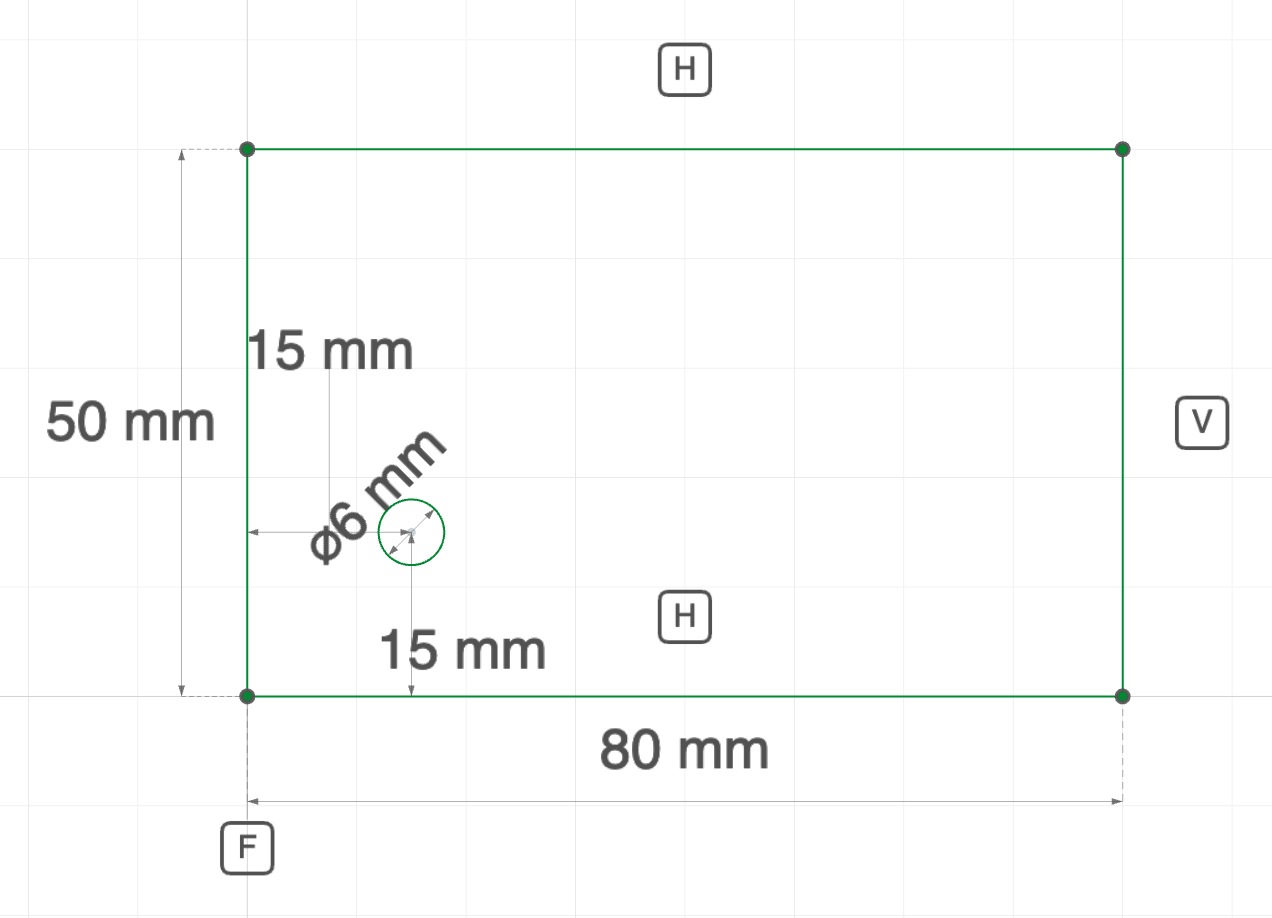
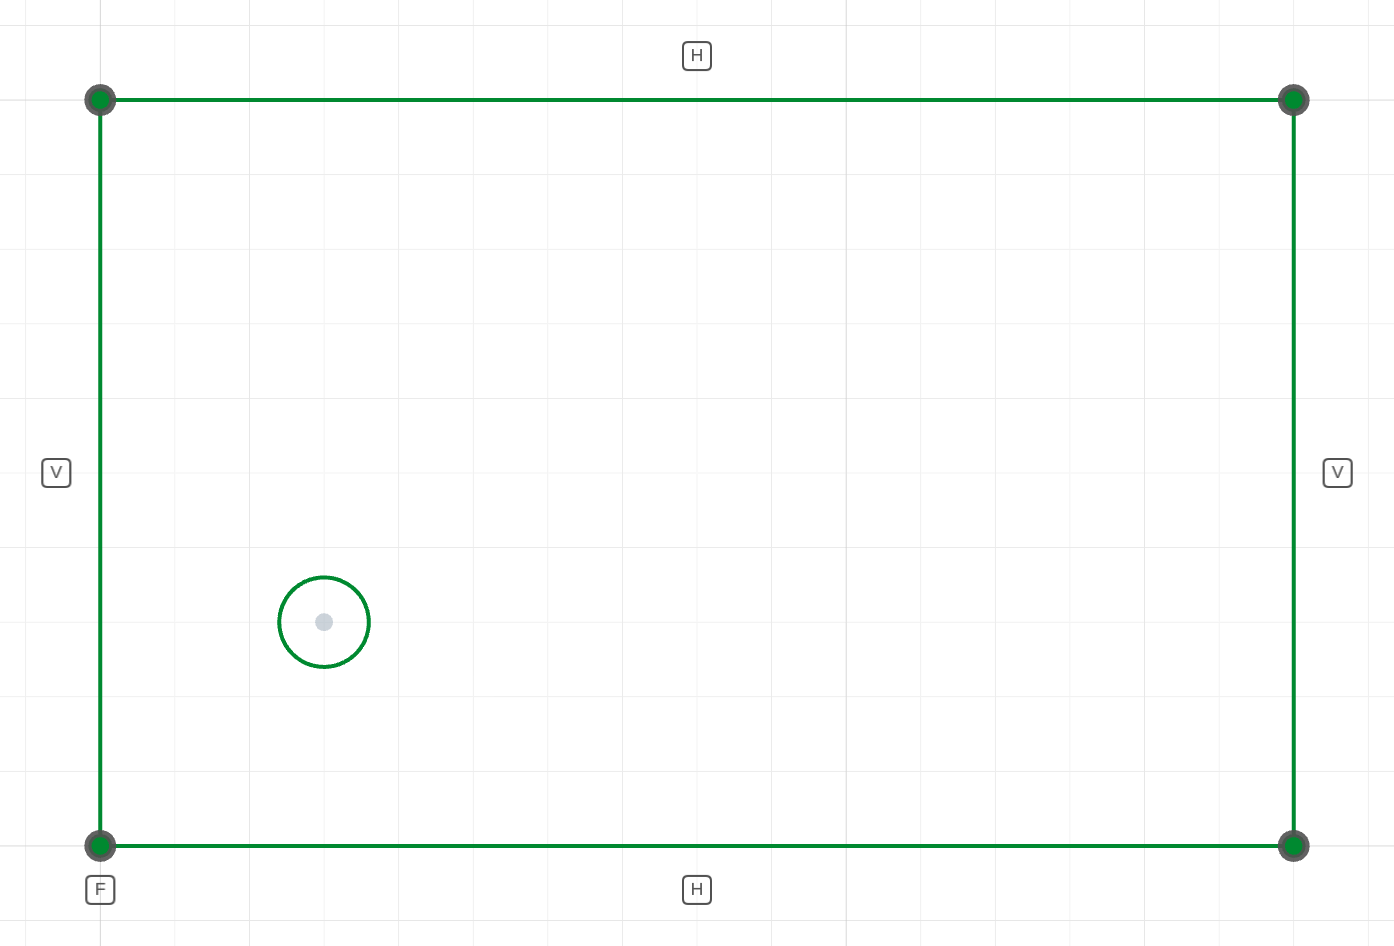
docs(sketching): hide dimensional constraints on positional-constraint screenshots — hideDimensions/hidePositional directives backed by showDimensions/showPositional screenshot options, annotations laid out against the export renderer at pixelRatio 2 so they land at on-screen size, export renderer r

diff --git a/ui/src/screenshot.ts b/ui/src/screenshot.ts
@@ -10,6 +10,8 @@ import {
 import { FIT_PADDING, SceneContext } from './scene/scene-context';
 import { resolveView, type ScreenshotView } from './screenshot-view';
 import { findGeometryRoot } from './scene/scene-geometry-bounds';
+import { runFrameHooks } from './meshes/frame-hooks';
+import { withSketchConstraintVisibility } from './meshes/containers/sketch-constraint-visibility';
 
 export interface ScreenshotOptions {
   width: number;
@@ -31,6 +33,24 @@ export interface ScreenshotOptions {
    * of whatever the user was editing.
    */
   solidsOnly: boolean;
+  /**
+   * Sketch constraint annotations, mirroring the sketch dialog's "Show
+   * constraints" toggles: `showDimensions` covers distance/angle/radius/
+   * diameter readouts, `showPositional` the relation badges and
+   * coincidence dots. Both default to on; a capture that turns one off
+   * rebuilds the sketch glyphs for the shot and restores them afterwards.
+   */
+  showDimensions: boolean;
+  showPositional: boolean;
+  /**
+   * Device-pixel ratio of the export: the drawing buffer stays `width` ×
+   * `height`, but screen-space overlays (constraint badges, dimension
+   * readouts, vertex dots) are sized as if the canvas were `width /
+   * pixelRatio` CSS pixels wide. A 2× export of a docs image that is shown
+   * at half size then carries annotations at their on-screen size, like a
+   * high-DPI screen would.
+   */
+  pixelRatio: number;
 }
 
 const DEFAULTS: ScreenshotOptions = {
@@ -44,6 +64,9 @@ const DEFAULTS: ScreenshotOptions = {
   margin: 0,
   view: { kind: 'current' },
   solidsOnly: false,
+  showDimensions: true,
+  showPositional: true,
+  pixelRatio: 1,
 };
 
 /** Render the current scene to a PNG blob with the given options. */
@@ -106,7 +129,10 @@ export function captureScreenshotMulti(
  * the raw renderer canvas, or an auto-cropped copy).
  */
 function renderToCanvas(sceneCtx: SceneContext, options: ScreenshotOptions): HTMLCanvasElement {
-  const { width, height, showGrid, showAxes, transparent, autoCrop, fitToModel, margin, view, solidsOnly } = options;
+  const {
+    width, height, showGrid, showAxes, transparent, autoCrop, fitToModel, margin, view, solidsOnly,
+    showDimensions, showPositional, pixelRatio,
+  } = options;
 
   const scene = sceneCtx.scene;
   const camera = sceneCtx.camera;
@@ -116,6 +142,10 @@ function renderToCanvas(sceneCtx: SceneContext, options: ScreenshotOptions): HTM
   // Solids-only goes first so the grid/axes toggles below still win over it,
   // and its restore runs last so everything lands back where it started.
   const restoreSolidsOnly = solidsOnly ? isolateSolids(scene) : null;
+  const restoreConstraintVisibility = withSketchConstraintVisibility(scene, {
+    dimensions: showDimensions,
+    positional: showPositional,
+  });
 
   const gridObj = scene.getObjectByName('grid');
   const defaultAxes = scene.getObjectByName('defaultAxesHelper');
@@ -215,8 +245,12 @@ function renderToCanvas(sceneCtx: SceneContext, options: ScreenshotOptions): HTM
     alpha: true,
     preserveDrawingBuffer: true,
   });
-  tmpRenderer.setSize(width, height);
-  tmpRenderer.setPixelRatio(1);
+  // Pixel ratio first: setSize multiplies the drawing buffer by it, so the
+  // buffer lands on width × height while getSize() — what the overlay
+  // layout sizes glyphs against — reports the CSS-pixel canvas.
+  const ratio = pixelRatio > 0 && Number.isFinite(pixelRatio) ? pixelRatio : 1;
+  tmpRenderer.setPixelRatio(ratio);
+  tmpRenderer.setSize(width / ratio, height / ratio, false);
   tmpRenderer.toneMapping = ACESFilmicToneMapping;
   tmpRenderer.outputColorSpace = SRGBColorSpace;
 
@@ -228,6 +262,14 @@ function renderToCanvas(sceneCtx: SceneContext, options: ScreenshotOptions): HTM
     }
   });
 
+  // Screen-space layout passes (sketch annotation declutter, glyph sizing)
+  // size and place their sprites against a renderer + camera, and a freshly
+  // rebuilt glyph set is invisible until one has run. Lay out against the
+  // export renderer so annotations come out at their intended pixel size in
+  // the capture (scaled by pixelRatio) rather than at whatever the live
+  // viewport's zoom made them; the next live frame lays them out again for
+  // the screen.
+  runFrameHooks(tmpRenderer, camera);
   tmpRenderer.render(scene, camera);
 
   // --- Optional auto-crop ---
@@ -277,9 +319,14 @@ function renderToCanvas(sceneCtx: SceneContext, options: ScreenshotOptions): HTM
     false,
   );
 
+  restoreConstraintVisibility();
   restoreSolidsOnly?.();
 
+  // dispose() alone leaves the WebGL context alive until GC; a page that
+  // captures repeatedly (docs generation, an agent's MCP screenshots) then
+  // hits the browser's per-page context cap and loses the live viewport's.
   tmpRenderer.dispose();
+  tmpRenderer.forceContextLoss();
   sceneCtx.requestRender();
 
   return finalCanvas;

diff --git a/ui/src/meshes/containers/sketch-constraint-visibility.ts b/ui/src/meshes/containers/sketch-constraint-visibility.ts
@@ -1,0 +1,59 @@
+import type { Object3D } from 'three';
+import { viewerSettings } from '../../scene/viewer-settings';
+import type { SketchMesh } from './sketch-mesh';
+
+export interface SketchConstraintVisibility {
+  /** Dimensional constraints: distance/angle/radius/diameter annotations. */
+  dimensions: boolean;
+  /** Positional constraints: badges and coincidence dots. */
+  positional: boolean;
+}
+
+/**
+ * Re-derive every live sketch mesh's constraint glyphs from the current
+ * visibility settings — the sketch dialog's dimensional/positional toggles
+ * and the screenshot options both end up here. No server round-trip: the
+ * meshes rebuild their annotation groups in place.
+ */
+export function refreshSketchConstraintGlyphs(scene: Object3D): void {
+  // Collect before refreshing: the rebuild swaps the mesh's own children,
+  // which must not happen under scene.traverse's child iteration.
+  const meshes: SketchMesh[] = [];
+  scene.traverse(node => {
+    if (node.userData.isSketchRoot) {
+      meshes.push(node as SketchMesh);
+    }
+  });
+  for (const mesh of meshes) {
+    mesh.refreshConstraintGlyphs();
+  }
+}
+
+/**
+ * Temporarily apply a constraint-visibility choice to the live sketch
+ * meshes. Returns the undo, which puts the session-wide settings back and
+ * rebuilds the glyphs once more. A no-op (identity undo) when the requested
+ * visibility already matches the settings, so the common capture path never
+ * churns the meshes.
+ */
+export function withSketchConstraintVisibility(
+  scene: Object3D,
+  visibility: SketchConstraintVisibility,
+): () => void {
+  const saved = {
+    sketchShowDimensions: viewerSettings.current.sketchShowDimensions,
+    sketchShowPositional: viewerSettings.current.sketchShowPositional,
+  };
+  if (saved.sketchShowDimensions === visibility.dimensions && saved.sketchShowPositional === visibility.positional) {
+    return () => {};
+  }
+  viewerSettings.update({
+    sketchShowDimensions: visibility.dimensions,
+    sketchShowPositional: visibility.positional,
+  });
+  refreshSketchConstraintGlyphs(scene);
+  return () => {
+    viewerSettings.update(saved);
+    refreshSketchConstraintGlyphs(scene);
+  };
+}

diff --git a/mcp/src/tools/screenshot.ts b/mcp/src/tools/screenshot.ts
@@ -35,6 +35,9 @@ export type ScreenshotInput = WorkspaceArg & {
   fitToModel?: boolean;
   margin?: number;
   solidsOnly?: boolean;
+  showDimensions?: boolean;
+  showPositional?: boolean;
+  pixelRatio?: number;
 };
 
 export async function screenshot(input: ScreenshotInput): Promise<ToolResult<ImageResult>> {
@@ -179,6 +182,9 @@ type ValidatedOptions = {
   margin?: number;
   view?: ScreenshotView;
   solidsOnly?: boolean;
+  showDimensions?: boolean;
+  showPositional?: boolean;
+  pixelRatio?: number;
 };
 
 function validateScreenshotInput(input: ScreenshotInput | ScreenshotMultiInput): ToolResult<ValidatedOptions> {
@@ -198,7 +204,7 @@ function validateScreenshotInput(input: ScreenshotInput | ScreenshotMultiInput):
     }
     opts.height = h;
   }
-  for (const k of ['showGrid', 'showAxes', 'transparent', 'autoCrop', 'fitToModel', 'solidsOnly'] as const) {
+  for (const k of ['showGrid', 'showAxes', 'transparent', 'autoCrop', 'fitToModel', 'solidsOnly', 'showDimensions', 'showPositional'] as const) {
     const v = (input as any)[k];
     if (v !== undefined) {
       if (typeof v !== 'boolean') {
@@ -206,6 +212,13 @@ function validateScreenshotInput(input: ScreenshotInput | ScreenshotMultiInput):
       }
       (opts as any)[k] = v;
     }
+  }
+  if ((input as ScreenshotInput).pixelRatio !== undefined) {
+    const r = (input as ScreenshotInput).pixelRatio!;
+    if (typeof r !== 'number' || !(r >= 1 && r <= 4)) {
+      return err('invalid-input', '`pixelRatio` must be a number between 1 and 4.');
+    }
+    opts.pixelRatio = r;
   }
   if ((input as ScreenshotInput).margin !== undefined) {
     const m = (input as ScreenshotInput).margin!;

diff --git a/ui/src/viewer.ts b/ui/src/viewer.ts
@@ -7,6 +7,7 @@ import { sceneUnit } from './units/scene-unit';
 import { GridScaleBar } from './ui/grid-scale-bar';
 import { buildSceneMesh } from './meshes/mesh-factory';
 import type { SketchMesh } from './meshes/containers/sketch-mesh';
+import { refreshSketchConstraintGlyphs } from './meshes/containers/sketch-constraint-visibility';
 import { PlaneData, SceneObjectPart, SceneObjectRender, SerializedAssembly, SerializedAssemblyMate, SubSelection } from './types';
 import { AssemblyController, DragValueHandler, InstanceDragReleaseHandler, SolverUpdateHandler } from './scene/assembly-controller';
 import { FaceMesh } from './meshes/shape-meshes/face-mesh';
@@ -459,17 +460,7 @@ export class Viewer {
   }
 
   private refreshSketchConstraintGlyphs(): void {
-    // Collect before refreshing: the rebuild swaps the mesh's own children,
-    // which must not happen under scene.traverse's child iteration.
-    const meshes: SketchMesh[] = [];
-    this.ctx.scene.traverse(node => {
-      if (node.userData.isSketchRoot) {
-        meshes.push(node as SketchMesh);
-      }
-    });
-    for (const mesh of meshes) {
-      mesh.refreshConstraintGlyphs();
-    }
+    refreshSketchConstraintGlyphs(this.ctx.scene);
     this.ctx.requestRender();
   }
 

diff --git a/mcp/src/server.ts b/mcp/src/server.ts
@@ -419,6 +419,9 @@ export function buildServer(options: BuildServerOptions = {}): McpServer {
         fitToModel: z.boolean().optional(),
         margin: marginArg,
         solidsOnly: z.boolean().optional().describe('Render only the model\'s solids: hides sketches, construction planes/axes, connectors and overlays, and lifts sketch-mode ghosting. Fitting frames the solids alone.'),
+        showDimensions: z.boolean().optional().describe('Show sketch dimensional-constraint annotations (distance, angle, radius, diameter). Default true; pass false to declutter a sketch capture.'),
+        showPositional: z.boolean().optional().describe('Show sketch positional-constraint badges and coincidence dots. Default true.'),
+        pixelRatio: z.number().min(1).max(4).optional().describe('Device-pixel ratio of the export (default 1). Overlays such as constraint badges and dimension readouts are sized for a width/pixelRatio CSS-pixel canvas, so a 2× export viewed at half size shows them at on-screen size.'),
       },
     },
     async (args) => toMcp(await screenshot(args as any)),

diff --git a/server/src/routes/screenshot.ts b/server/src/routes/screenshot.ts
@@ -25,6 +25,9 @@ export function createScreenshotRouter(
       view,
       multi,
       solidsOnly,
+      showDimensions,
+      showPositional,
+      pixelRatio,
     } = req.body;
 
     const options: Record<string, unknown> = {};
@@ -107,6 +110,24 @@ export function createScreenshotRouter(
         return;
       }
       options.solidsOnly = solidsOnly;
+    }
+
+    for (const [key, value] of [['showDimensions', showDimensions], ['showPositional', showPositional]] as const) {
+      if (value !== undefined) {
+        if (typeof value !== 'boolean') {
+          res.status(400).json({ error: `${key} must be a boolean.` });
+          return;
+        }
+        options[key] = value;
+      }
+    }
+
+    if (pixelRatio !== undefined) {
+      if (typeof pixelRatio !== 'number' || !(pixelRatio >= 1 && pixelRatio <= 4)) {
+        res.status(400).json({ error: 'pixelRatio must be a number between 1 and 4.' });
+        return;
+      }
+      options.pixelRatio = pixelRatio;
     }
 
     if (view !== undefined) {

diff --git a/server/src/ws-protocol.ts b/server/src/ws-protocol.ts
@@ -541,6 +541,14 @@ export type UITakeScreenshotMessage = {
     multi?: boolean;
     /** Solids alone — no sketches, construction geometry or overlays, no sketch-mode ghost tint. */
     solidsOnly?: boolean;
+    /** Sketch dimensional-constraint annotations (distance/angle/radius/diameter); default on. */
+    showDimensions?: boolean;
+    /** Sketch positional-constraint badges and coincidence dots; default on. */
+    showPositional?: boolean;
+    /** Device-pixel ratio of the export (default 1): overlays are sized for a
+     * `width / pixelRatio` CSS-pixel canvas, so a 2× export shown at half
+     * size carries on-screen-sized annotations. */
+    pixelRatio?: number;
   };
 };
 

diff --git a/website/docs/sketching/_examples/constraint-equal.js b/website/docs/sketching/_examples/constraint-equal.js
@@ -1,4 +1,4 @@
-// @screenshot view top
+// @screenshot view top hideDimensions
 import { sketch, line, arc, circle } from 'fluidcad/core';
 import { equal, coincident, tangent, horizontal, vertical, fix, distance, radius, diameter } from "fluidcad/constraints";
 

diff --git a/website/docs/sketching/_examples/constraint-midpoint.js b/website/docs/sketching/_examples/constraint-midpoint.js
@@ -1,4 +1,4 @@
-// @screenshot view top
+// @screenshot view top hideDimensions
 import { sketch, line, circle, point } from 'fluidcad/core';
 import { midpoint, coincident, horizontal, vertical, fix, distance, diameter } from "fluidcad/constraints";
 

diff --git a/website/docs/sketching/_examples/constraint-symmetric.js b/website/docs/sketching/_examples/constraint-symmetric.js
@@ -1,4 +1,4 @@
-// @screenshot view top
+// @screenshot view top hideDimensions
 import { sketch, line, circle, origin, yAxis } from 'fluidcad/core';
 import { symmetric, coincident, vertical, distance, diameter } from "fluidcad/constraints";
 

diff --git a/website/docs/sketching/_examples/constraint-collinear.js b/website/docs/sketching/_examples/constraint-collinear.js
@@ -1,4 +1,4 @@
-// @screenshot view top
+// @screenshot view top hideDimensions
 import { sketch, line, xAxis, yAxis } from 'fluidcad/core';
 import { collinear, coincident, horizontal, vertical, distance } from "fluidcad/constraints";
 

diff --git a/website/docs/sketching/_examples/constraint-coincident.js b/website/docs/sketching/_examples/constraint-coincident.js
@@ -1,4 +1,4 @@
-// @screenshot view top
+// @screenshot view top hideDimensions
 import { sketch, line, circle } from 'fluidcad/core';
 import { coincident, horizontal, vertical, fix, distance, diameter } from "fluidcad/constraints";
 
